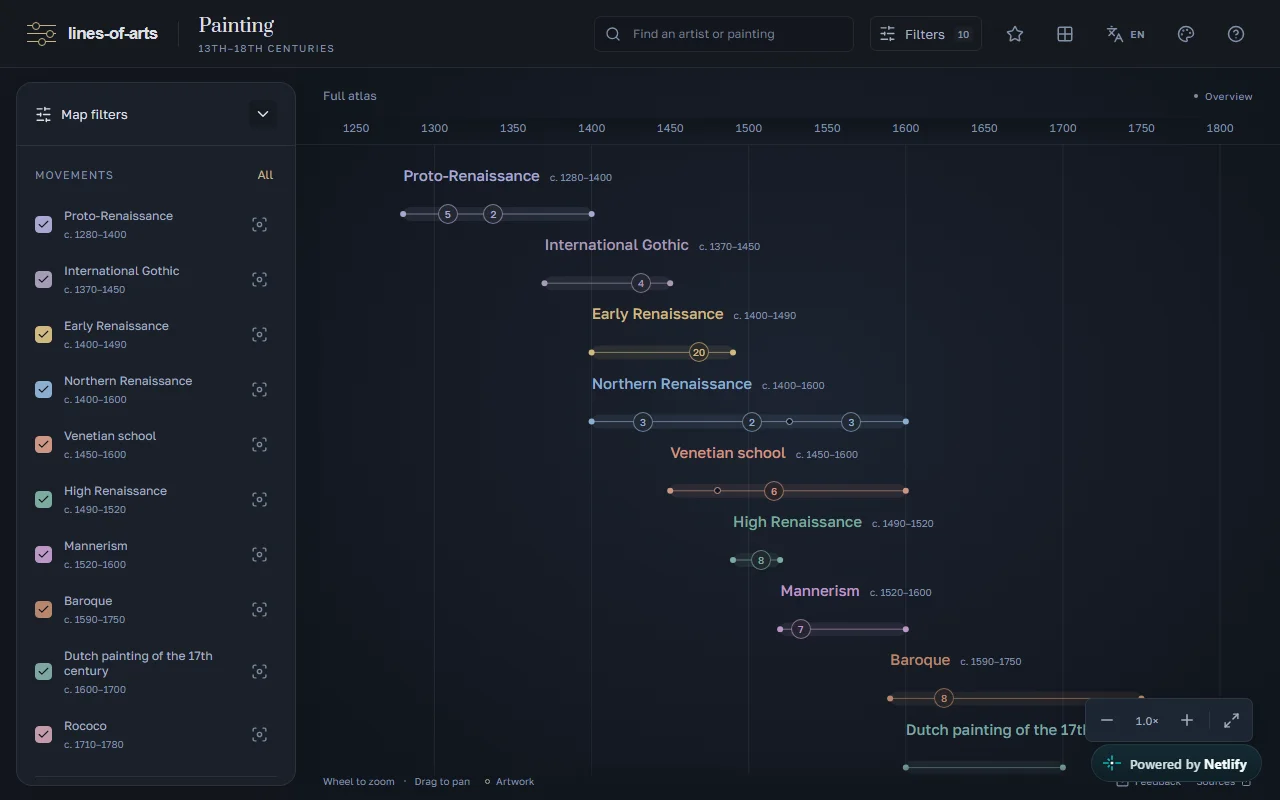
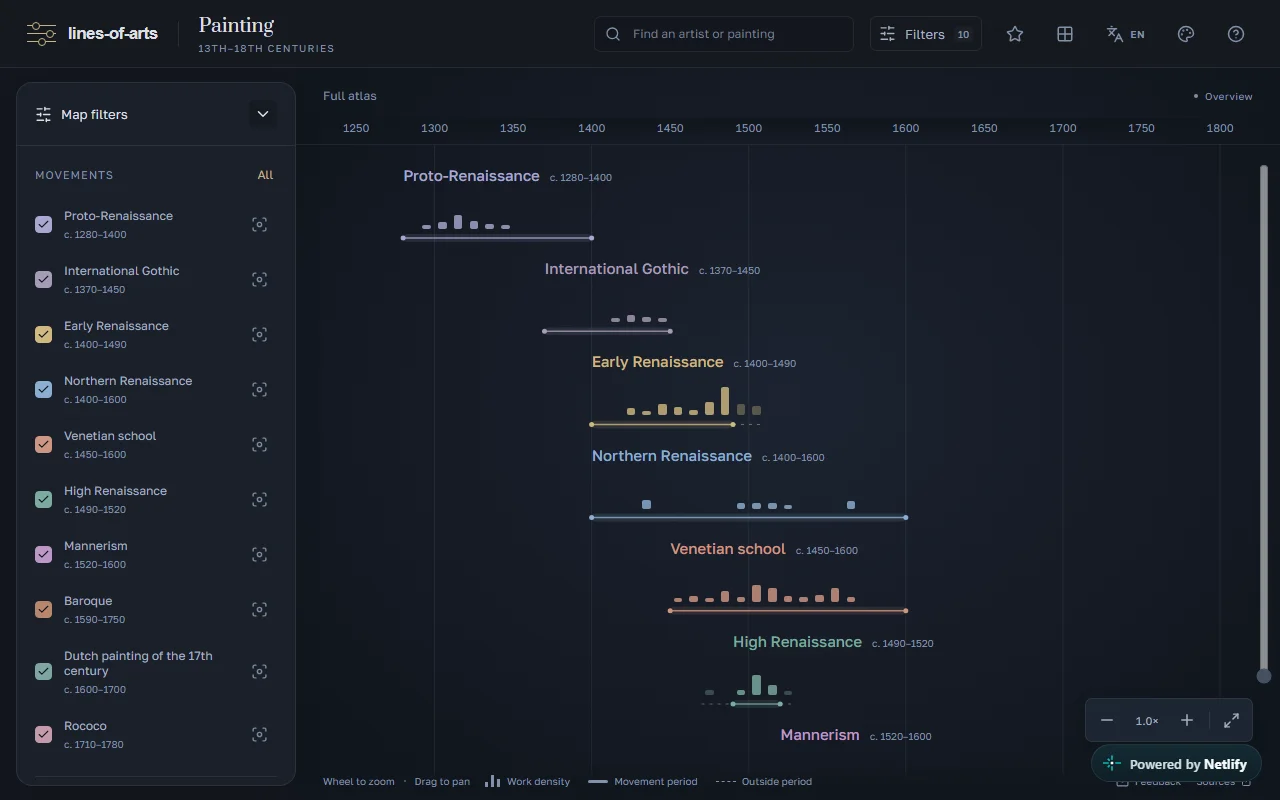
Add Elden Ring Archive and enable Netlify builds

diff --git a/translations.js b/translations.js
@@ -144,8 +144,11 @@ window.portfolioTranslations = {
       "A Zenless Zone Zero resource connecting characters, equipment and guides through search and a knowledge graph.",
     zzzAlt: "ZZZ Archive homepage",
     development: "IN DEVELOPMENT",
+    eldenType: "PVE FIELD MANUAL",
+    eldenAlt: "Elden Ring Archive homepage",
+    eldenVisit: "Visit Elden Ring Archive",
     eldenDescription:
-      "The next site in the network, dedicated to Elden Ring. Currently in development; a public version is not yet available.",
+      "A practical Elden Ring PvE reference with builds, equipment, boss strategies and guides for the base game and expansion.",
     networkFooter:
       "An ongoing product practice: organizing content, connecting related material and evolving interfaces as each resource grows.",
     approachEyebrow: "03 / HOW I WORK",
@@ -322,8 +325,11 @@ window.portfolioTranslations = {
       "Ресурс по Zenless Zone Zero: персонажи, экипировка и гайды, связанные через поиск и граф знаний.",
     zzzAlt: "Главная страница ZZZ Archive",
     development: "В РАЗРАБОТКЕ",
+    eldenType: "СПРАВОЧНИК ПО PVE",
+    eldenAlt: "Главная страница Elden Ring Archive",
+    eldenVisit: "Открыть Elden Ring Archive",
     eldenDescription:
-      "Следующий сайт сети — по Elden Ring. Сейчас в разработке; публичная версия пока недоступна.",
+      "Практический справочник по Elden Ring: PvE-билды, снаряжение, тактики против боссов и гайды по основной игре и дополнению.",
     networkFooter:
       "Постоянная работа над продуктами: систематизирую контент, связываю материалы и развиваю интерфейсы по мере роста ресурсов.",
     approachEyebrow: "03 / ПОДХОД К РАБОТЕ",
@@ -502,8 +508,11 @@ window.portfolioTranslations = {
       "Un recurso de Zenless Zone Zero que conecta personajes, equipo y guías mediante búsquedas y un grafo de conocimiento.",
     zzzAlt: "Página principal de ZZZ Archive",
     development: "EN DESARROLLO",
+    eldenType: "GUÍA DE PVE",
+    eldenAlt: "Página principal de Elden Ring Archive",
+    eldenVisit: "Abrir Elden Ring Archive",
     eldenDescription:
-      "El próximo sitio de la red estará dedicado a Elden Ring. Está en desarrollo y aún no tiene una versión pública.",
+      "Una guía práctica de Elden Ring con configuraciones PvE, equipo, estrategias contra jefes y artículos del juego base y su expansión.",
     networkFooter:
       "Trabajo continuo en productos: organizar contenido, conectar materiales y mejorar las interfaces a medida que crecen los recursos.",
     approachEyebrow: "03 / MI ENFOQUE",
@@ -683,8 +692,11 @@ window.portfolioTranslations = {
       "Tài nguyên về Zenless Zone Zero, liên kết nhân vật, trang bị và hướng dẫn qua tìm kiếm và đồ thị tri thức.",
     zzzAlt: "Trang chủ ZZZ Archive",
     development: "ĐANG XÂY DỰNG",
+    eldenType: "CẨM NANG PVE",
+    eldenAlt: "Trang chủ Elden Ring Archive",
+    eldenVisit: "Mở Elden Ring Archive",
     eldenDescription:
-      "Website tiếp theo trong mạng lưới dành cho Elden Ring. Hiện đang phát triển và chưa có phiên bản công khai.",
+      "Cẩm nang PvE Elden Ring với lối xây dựng nhân vật, trang bị, chiến thuật đánh trùm và hướng dẫn cho trò chơi gốc cùng bản mở rộng.",
     networkFooter:
       "Liên tục phát triển sản phẩm: tổ chức nội dung, liên kết tài liệu và cải thiện giao diện khi tài nguyên mở rộng.",
     approachEyebrow: "03 / CÁCH LÀM VIỆC",
@@ -854,8 +866,11 @@ window.portfolioTranslations = {
     zzzDescription: "绝区零资料网站，通过搜索和知识图谱连接角色、装备与攻略。",
     zzzAlt: "ZZZ Archive 首页",
     development: "开发中",
+    eldenType: "PVE 实战手册",
+    eldenAlt: "Elden Ring Archive 首页",
+    eldenVisit: "打开 Elden Ring Archive",
     eldenDescription:
-      "系列中的下一个网站将围绕艾尔登法环展开。目前正在开发，尚无公开版本。",
+      "艾尔登法环 PvE 实用资料站，涵盖角色构筑、装备、首领打法，以及本体和资料片攻略。",
     networkFooter:
       "持续的产品实践：整理内容、建立资料之间的联系，并随着网站的发展改进界面。",
     approachEyebrow: "03 / 开发方式",

diff --git a/index.html b/index.html
@@ -509,23 +509,48 @@
                 </div>
               </div>
             </article>
-            <article class="project network-upcoming">
-              <div class="upcoming-visual" aria-hidden="true">
-                <span class="upcoming-orbit"></span><span>ELDEN<br />RING</span
-                ><span class="upcoming-caption">ARCHIVE / NEXT CHAPTER</span>
-              </div>
+            <article class="project">
+              <a
+                class="project-visual elden-visual"
+                href="https://elden-ring-archive.netlify.app/"
+                target="_blank"
+                rel="noopener noreferrer"
+                aria-label="Visit Elden Ring Archive"
+                data-i18n-aria="eldenVisit"
+                ><span class="visual-caption">ELDEN RING ARCHIVE / PVE FIELD MANUAL</span>
+                <div class="browser-frame">
+                  <div class="browser-bar">
+                    <span>elden-ring-archive.netlify.app</span>
+                  </div>
+                  <img
+                    src="pics/projects/elden-ring-archive.webp"
+                    width="1280"
+                    height="800"
+                    loading="lazy"
+                    alt="Elden Ring Archive homepage"
+                    data-i18n-alt="eldenAlt"
+                  />
+                </div>
+              </a>
               <div class="project-content">
                 <div class="project-meta">
-                  <span class="development-badge" data-i18n="development"
-                    >IN DEVELOPMENT</span
+                  <span data-i18n="eldenType">PVE FIELD MANUAL</span
+                  ><span class="live-badge" data-i18n="live">LIVE</span>
+                </div>
+                <h3>Elden Ring Archive</h3>
+                <p data-i18n="eldenDescription">
+                  A practical Elden Ring PvE reference with builds, equipment,
+                  boss strategies and guides for the base game and expansion.
+                </p>
+                <div class="project-actions">
+                  <a
+                    class="text-link"
+                    href="https://elden-ring-archive.netlify.app/"
+                    target="_blank"
+                    rel="noopener noreferrer"
+                    ><span data-i18n="visitSite">Visit site</span> ↗</a
                   >
                 </div>
-                <h3>Elden Ring</h3>
-                <p data-i18n="eldenDescription">
-                  The next site in the network, dedicated to Elden Ring.
-                  Currently in development; a public version is not yet
-                  available.
-                </p>
               </div>
             </article>
           </div>

diff --git a/styles.css b/styles.css
@@ -1740,6 +1740,12 @@ html[lang="zh-Hans"] .hero h1 {
 .zzz-visual .visual-caption {
   color: #e7edf4;
 }
+.elden-visual {
+  background: #25281f;
+}
+.elden-visual .visual-caption {
+  color: #d9cba3;
+}
 .network-footer {
   margin-top: 32px;
   max-width: 720px;

diff --git a/README.md b/README.md
@@ -14,7 +14,7 @@ Open `http://127.0.0.1:4173/`. Run `npm.cmd run check` for syntax, translation/c
 
 ## Content and languages
 
-Selected work: Interior Arts, Soberu and Lines of Arts (a published art-history reference covering painting movements, artists, works and teacher–student links). A separate growing site network presents Ashen Archive, ZZZ Archive and Elden Ring (in development, with no public link). Earlier experiments are removed from the page. Three evidence-based value propositions connect development capabilities to these projects. Platform skills include 1C-Bitrix and Bitrix24 alongside custom web development.
+Selected work: Interior Arts, Soberu and Lines of Arts (a published art-history reference covering painting movements, artists, works and teacher–student links). A separate growing site network presents Ashen Archive, ZZZ Archive and the public Elden Ring Archive PvE reference. Earlier experiments are removed from the page. Three evidence-based value propositions connect development capabilities to these projects. Platform skills include 1C-Bitrix and Bitrix24 alongside custom web development.
 
 `translations.js` contains complete English, Russian, Spanish, Vietnamese and Simplified Chinese dictionaries, including project notes, accessible labels and analytics preferences. English is the default. The selector saves the chosen language locally and updates `?lang=en|ru|es|vi|zh` for shareable links. URL language takes priority over the saved preference. These are client-rendered translations, not five independently prerendered SEO pages; the canonical site URL stays the same.
 
@@ -22,9 +22,9 @@ Selected work: Interior Arts, Soberu and Lines of Arts (a published art-history 
 
 ## Automatic homepage previews
 
-Interior Arts, Soberu, Lines of Arts, Ashen Archive and ZZZ Archive show bundled homepage screenshots on every screen size. The cards link to the live websites in new tabs. No iframe replaces a screenshot after page load, so a blocked or slow third-party page cannot blank a card or trigger repeated rendering.
+Interior Arts, Soberu, Lines of Arts, Ashen Archive, ZZZ Archive and Elden Ring Archive show bundled homepage screenshots on every screen size. The cards link to the live websites in new tabs. No iframe replaces a screenshot after page load, so a blocked or slow third-party page cannot blank a card or trigger repeated rendering.
 
-`scripts/previews.cjs` captures all five homepages in isolated Chromium contexts, converts them to WebP and records timestamps in `pics/projects/manifest.json`. The dev server refreshes the files after six hours; reload the local page to see new captures. `npm.cmd run previews:refresh` forces an update when Playwright Chromium is installed locally. Commit refreshed screenshots to update the published cards. `npm.cmd run build` copies the saved images and other public files into `dist/` without launching Chromium; Netlify needs no browser installation. Publication remains on hold.
+`scripts/previews.cjs` captures all six homepages in isolated Chromium contexts, converts them to WebP and records timestamps in `pics/projects/manifest.json`. The dev server refreshes the files after six hours; reload the local page to see new captures. `npm.cmd run previews:refresh` forces an update when Playwright Chromium is installed locally. Commit refreshed screenshots to update the published cards. `npm.cmd run build` copies the saved images and other public files into `dist/` without launching Chromium; Netlify needs no browser installation.
 
 Screenshots are never swapped or reloaded by client-side JavaScript. Scroll-reveal animation is disabled on screens up to 1024px to reduce paint work.
 
@@ -34,10 +34,10 @@ Set the portfolio web stream's `gaMeasurementId` in `site-config.js` to its `G-.
 
 Tracking is allowed only on the exact configured production hostname. Localhost and preview traffic are excluded. The Google tag loads only after the visitor permits analytics. Visitors can reopen preferences in the footer and withdraw consent. Ad storage, ad personalization and Google signals stay disabled. Pageviews, language changes and project-note opens are measured; form contents and contact details are not sent. No message submission form is present.
 
-After publication is separately approved, verify the stream using GA4 Realtime / Tag Assistant after granting consent. No production data has been verified during local review. Google Analytics measurement is separate from Google Search Console indexing.
+When production deploys resume, verify the stream using GA4 Realtime / Tag Assistant after granting consent. No production data has been verified during local review. Google Analytics measurement is separate from Google Search Console indexing.
 
-## Publication is on hold
+## Deployment
 
-Repository content can be updated on `main` without publishing it. `scripts/ignore-build.cjs` currently skips all Netlify builds, including `main`; Git commits and the draft PR title also carry `[skip netlify]`. Keep this publication hold until the owner approves deployment, then deliberately update the ignore script and verify the production build. The current production site is separate from the files in GitHub.
+Netlify is linked to `BorgesWrt/henryborges` and configured to build `main` with `npm run build`, publishing `dist/`. Git commits should omit `[skip netlify]` when a production update is intended. If the Netlify team has exhausted its monthly credits, production deploys remain paused regardless of repository settings; verify the deploy status and live URL after credits refresh or the team plan changes.
 
 References: [Netlify deploy skipping](https://docs.netlify.com/deploy/manage-deploys/manage-deploys-overview/), [Netlify ignore builds](https://docs.netlify.com/build/configure-builds/ignore-builds/), [Google basic consent mode](https://developers.google.com/tag-platform/security/concepts/consent-mode), [Google tag privacy settings](https://developers.google.com/tag-platform/security/guides/privacy).
